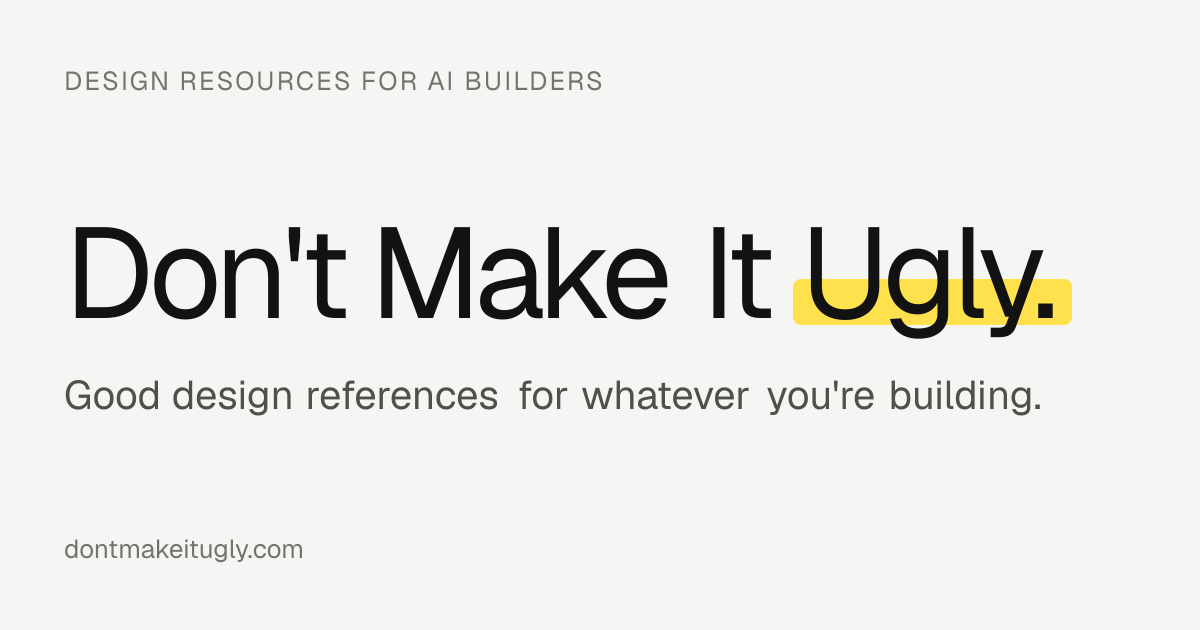
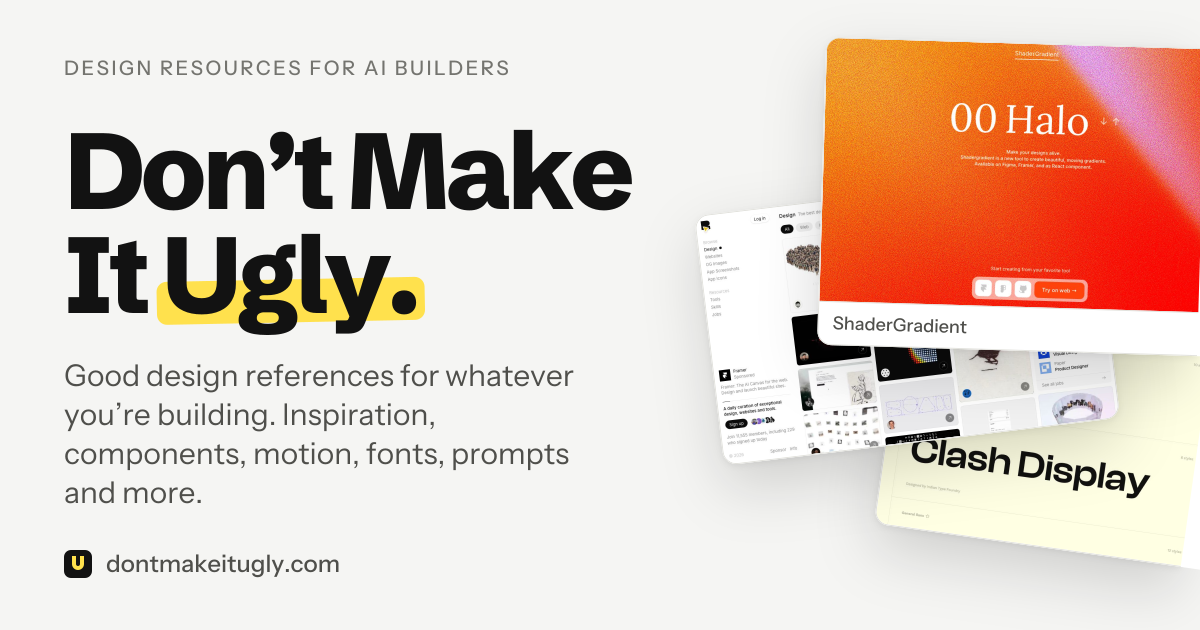
Update the Don't Make It Ugly preview
Pulled the current opengraph image from dontmakeitugly.com. The card was
redesigned — the wordmark now sits beside a fanned stack of screenshots from
the directory instead of standing alone on grey, and the tagline carries the
longer line about inspiration, components, motion, fonts and prompts.

Still 1200x630, so it drops into the tile at the same content height as the
other two featured cards. The alt text now describes what the capture
actually shows.

Claude-Session: https://claude.ai/code/session_01KexBVsU1nNE4MqRaSyhfM2

diff --git a/src/data/projects.js b/src/data/projects.js
@@ -40,7 +40,8 @@ export const projects = [
       'A curated directory of design inspiration, components, libraries, repositories, prompts, and agent resources for people building software with coding agents.',
     proof: ['Curated resources', 'Agent-friendly', 'Built end to end'],
     img: dontMakeItUgly,
-    imgAlt: "Don't Make It Ugly — Good design references for whatever you're building.",
+    imgAlt:
+      "Don't Make It Ugly — good design references for whatever you're building, beside a fanned stack of design site screenshots",
     urlLabel: 'dontmakeitugly.com',
     url: 'https://dontmakeitugly.com/',
     size: 'xl',
